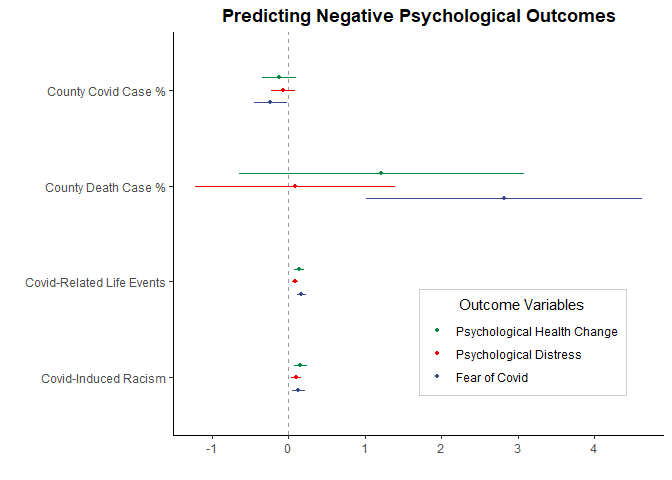
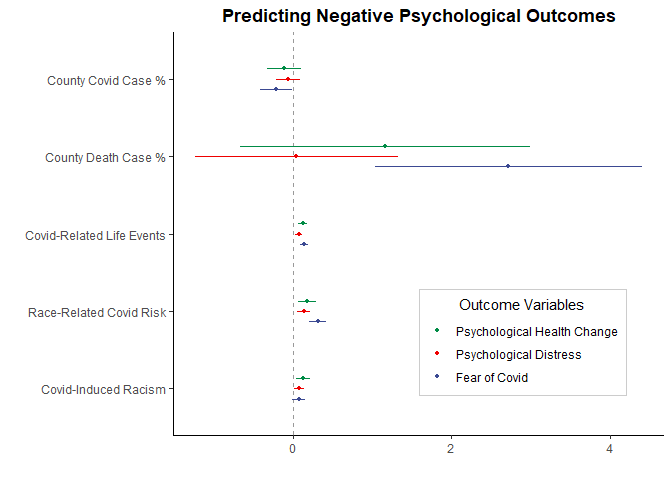
std

diff --git a/p09/p09.md b/p09/p09.md
@@ -92,42 +92,59 @@ library(tibble)
     ## Warning: package 'tibble' was built under R version 4.2.3
 
 ``` r
+library(jtools)
+```
+
+    ## Warning: package 'jtools' was built under R version 4.2.3
+
+``` r
+library(scales)
+```
+
+    ## 
+    ## Attaching package: 'scales'
+
+    ## The following objects are masked from 'package:psych':
+    ## 
+    ##     alpha, rescale
+
+``` r
 reg <- read_sav("C:/Users/Colin/Documents/reg.sav")
 
-fear <- lm(fe ~ case_p + death_p + cv13 + covrac, data = reg)
+fear <- lm(fe ~ case_p + death_p + cv13 + risk_r + covrac, data = reg)
 
 summary(fear)
 ```
 
     ## 
     ## Call:
-    ## lm(formula = fe ~ case_p + death_p + cv13 + covrac, data = reg)
+    ## lm(formula = fe ~ case_p + death_p + cv13 + risk_r + covrac, 
+    ##     data = reg)
     ## 
     ## Residuals:
     ##     Min      1Q  Median      3Q     Max 
-    ## -2.4883 -0.7809 -0.1151  0.7909  2.9227 
+    ## -2.0841 -0.7899 -0.1063  0.6567  2.4585 
     ## 
     ## Coefficients:
     ##             Estimate Std. Error t value Pr(>|t|)    
-    ## (Intercept)  1.82697    0.28630   6.381 9.82e-10 ***
-    ## case_p      -0.23057    0.10876  -2.120  0.03510 *  
-    ## death_p      2.81951    0.91679   3.075  0.00236 ** 
-    ## cv13         0.17047    0.02927   5.823 1.97e-08 ***
-    ## covrac       0.13063    0.04353   3.001  0.00299 ** 
+    ## (Intercept)  1.48008    0.27325   5.417 1.56e-07 ***
+    ## case_p      -0.21567    0.10142  -2.126   0.0346 *  
+    ## death_p      2.71570    0.85484   3.177   0.0017 ** 
+    ## cv13         0.13929    0.02779   5.012 1.09e-06 ***
+    ## risk_r       0.31327    0.05291   5.921 1.19e-08 ***
+    ## covrac       0.07679    0.04158   1.847   0.0661 .  
     ## ---
     ## Signif. codes:  0 '***' 0.001 '**' 0.01 '*' 0.05 '.' 0.1 ' ' 1
     ## 
-    ## Residual standard error: 1.073 on 226 degrees of freedom
+    ## Residual standard error: 1 on 225 degrees of freedom
     ##   (15 observations deleted due to missingness)
-    ## Multiple R-squared:  0.2341, Adjusted R-squared:  0.2206 
-    ## F-statistic: 17.27 on 4 and 226 DF,  p-value: 2.236e-12
+    ## Multiple R-squared:  0.3374, Adjusted R-squared:  0.3226 
+    ## F-statistic: 22.91 on 5 and 225 DF,  p-value: < 2.2e-16
 
 ``` r
-sd<-lm.beta(fear)
+distress <- lm(dis ~ case_p + death_p + cv13 + risk_r + covrac , data = reg)
 
-distress <- lm(dis ~ case_p + death_p + cv13 + covrac, data = reg)
-
-psyh <- lm(psyh ~ case_p + death_p + cv13 + covrac, data = reg)
+psyh <- lm(psyh ~ case_p + death_p + cv13 + risk_r + covrac, data = reg)
 ```
 
 ``` r
@@ -142,12 +159,13 @@ dwplot(list(fear, distress, psyh), vline = geom_vline(
            colour = "grey60",
            linetype = 2
        ),
-       vars_order = c("case_p", "death_p", "cv13", "covrac")) %>% 
+       vars_order = c("case_p", "death_p", "cv13", "risk_r", "covrac")) %>% 
   relabel_predictors(
         c(
             case_p = "County Covid Case %",
             death_p = "County Death Case %",
             cv13 = "Covid-Related Life Events",
+            risk_r = "Race-Related Covid Risk",
            covrac = "Covid-Induced Racism"
         )) + theme_classic() + scale_color_aaas(name = "Outcome Variables",
         labels = c("Fear of Covid", "Psychological Distress", "Psychological Health Change")) + labs(title = "Predicting Negative Psychological Outcomes") + theme(plot.title = element_text(face = "bold", hjust = 0.5),  legend.position = c(0.5, 0.1),
@@ -165,3 +183,85 @@ see death% predicts fear of covid but not the other 2 outcomes because
 the range includes 0. Obviously there are still problems. I wish the
 lines and dots could be thicker. I also hope that I can plot the
 standardized coefficients so the death% doesn’t look so dramatic.
+
+``` r
+reg <- reg[complete.cases(reg[ , c('case_p', 'death_p')]), ]
+
+
+case_p.z <- (reg$case_p - mean(reg$case_p)) / sd(reg$case_p)
+
+death_p.z <- (reg$death_p - mean(reg$death_p)) / sd(reg$death_p)
+
+cv13.z <- (reg$cv13 - mean(reg$cv13)) / sd(reg$cv13)
+
+risk_r.z <- (reg$risk_r - mean(reg$risk_r)) / sd(reg$risk_r)
+
+covrac.z <- (reg$covrac - mean(reg$covrac)) / sd(reg$covrac)
+
+fe.z <- (reg$fe - mean(reg$fe)) / sd(reg$fe)
+
+dis.z <- (reg$dis - mean(reg$dis)) / sd(reg$dis)
+
+psyh.z <- (reg$psyh - mean(reg$psyh)) / sd(reg$psyh)
+```
+
+``` r
+fear.z <- lm(fe.z ~ case_p.z + death_p.z + cv13.z + risk_r.z + covrac.z, data = reg)
+
+distress.z <- lm(dis.z ~ case_p.z + death_p.z + cv13.z + risk_r.z + covrac.z , data = reg)
+
+psyh.z <- lm(psyh.z ~ case_p.z + death_p.z + cv13.z + risk_r.z + covrac.z, data = reg)
+
+dwplot(list(fear.z, distress.z, psyh.z), vline = geom_vline(
+           xintercept = 0,
+           colour = "grey60",
+           linetype = 2), whisker_args = list(width = 0.2, size = 1), dot_args = list(size = 4), 
+       vars_order = c("case_p.z", "death_p.z", "cv13.z", "risk_r.z", "covrac.z")) %>% 
+  relabel_predictors(
+        c(
+            case_p.z = "County Covid Case %",
+            death_p.z = "County Death Case %",
+            cv13.z = "Covid-Related Life Events",
+            risk_r.z = "Race-Related Covid Risk",
+           covrac.z = "Covid-Induced Racism"
+        )) + theme_classic() + scale_color_aaas(name = "Outcomes",
+        labels = c("Fear of Covid", "Psychological Distress", "Psychological Health Change")) + labs(title = "Predicting Negative Psychological Health Outcomes") + xlab("Standardized Estimates") + theme(plot.title = element_text(face = "bold", hjust = 0.5),  legend.position = "top", legend.text = element_text(size = 8) ) 
+```
+
+    ## Warning in geom_dw(df = df, point_args = point_args, segment_args = segment_args, : Ignoring unknown parameters: `width`
+    ## Ignoring unknown parameters: `width`
+
+![](p09_files/figure-gfm/unnamed-chunk-6-1.png)<!-- -->
+
+``` r
+lancet <- c('#00468bff',    '#ED0000FF',    '#42B540FF',    '#0099B4FF',
+'#925E9FFF',    '#FDAF91FF', '#AD002AFF',   '#ADB6B6FF',    
+'#1B1919FF',    '#B09C85FF')
+
+
+
+plot_summs(fear.z, distress.z, psyh.z, 
+           model.names = c("Fear of Covid", "Psychological Distress", "Psychological Health Change"), coefs = c(
+            "County Covid Case %" = "case_p.z",
+            "County Death Case %" = "death_p.z" ,
+            "Covid-Related Life Events" ="cv13.z" ,
+            "Race-Related Covid Risk" ="risk_r.z" ,
+           "Covid-Induced Racism" ="covrac.z" ), legend.title = "Outcomes", colors = lancet, point.shape=FALSE, point.size = 6) +labs(title = "Predicting Negative Psychological Health Outcomes") +  xlab("Standardized Estimates") + theme_classic() + theme(plot.title = element_text(face = "bold", hjust = 0.5), axis.title.y = element_blank(), axis.title.x = element_text(face = "bold"), legend.position = "top", legend.text = element_text(size = 8) )
+```
+
+    ## Registered S3 methods overwritten by 'broom':
+    ##   method            from  
+    ##   tidy.glht         jtools
+    ##   tidy.summary.glht jtools
+
+    ## Loading required namespace: broom.mixed
+    ## Loading required namespace: broom.mixed
+    ## Loading required namespace: broom.mixed
+
+![](p09_files/figure-gfm/unnamed-chunk-7-1.png)<!-- -->
+
+I prefer the dotwhisker package to the jtools only because it provides
+more customization. For example, here i cannot really change the whisker
+size or dot shape. But given that both of these plotting functions are
+based on ggplot2, so if I created the plots in ggplot2, it might provide
+the optimal customization.
